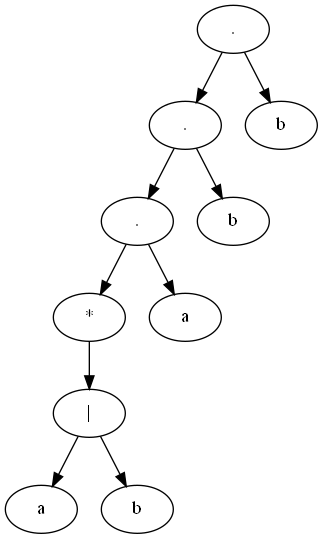
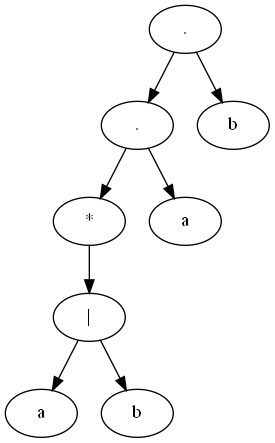
update

diff --git a/templates/index.html b/templates/index.html
@@ -3,73 +3,35 @@
 <head>
     <meta charset="UTF-8">
     <meta name="viewport" content="width=device-width, initial-scale=1.0">
-    <title>Visualizador de Expresiones Regulares</title>
-    <style>
-        body {
-            font-family: Arial, sans-serif;
-            text-align: center;
-            margin: 20px;
-        }
-        input {
-            padding: 8px;
-            width: 300px;
-            margin: 10px;
-        }
-        button {
-            padding: 10px 15px;
-            background-color: #28a745;
-            color: white;
-            border: none;
-            cursor: pointer;
-        }
-        button:hover {
-            background-color: #218838;
-        }
-        img {
-            margin-top: 20px;
-            max-width: 80%;
-        }
-        table {
-            margin: 20px auto;
-            border-collapse: collapse;
-        }
-        th, td {
-            border: 1px solid black;
-            padding: 5px 10px;
-        }
-    </style>
+    <title>Visualización de AFN, AFD y Árbol de Sintaxis</title>
 </head>
 <body>
-    <h2>Visualizador de Expresiones Regulares</h2>
-    <form method="POST">
-        <input type="text" name="expression" placeholder="Ingrese una expresión infix" required>
+    <h1>Generación y Visualización</h1>
+    
+    <form method="post">
+        <label for="expression">Expresión Regular:</label>
+        <input type="text" id="expression" name="expression" required>
         <button type="submit">Generar</button>
     </form>
 
     {% if postfix %}
-        <h3>Postfix:</h3>
+        <h2>Expresión en Postfix:</h2>
         <p>{{ postfix }}</p>
     {% endif %}
 
-    {% if followpos_table %}
-        <h3>Tabla de Followpos:</h3>
-        <table>
-            <tr>
-                <th>Posición</th>
-                <th>Followpos</th>
-            </tr>
-            {% for pos, follows in followpos_table.items() %}
-                <tr>
-                    <td>{{ pos }}</td>
-                    <td>{{ follows | join(', ') }}</td>
-                </tr>
-            {% endfor %}
-        </table>
+    {% if afn_image %}
+        <h2>Autómata Finito No Determinista (AFN)</h2>
+        <img src="{{ url_for('static', filename=afn_image) }}" alt="AFN">
     {% endif %}
 
-    {% if image_path %}
-        <h3>Árbol Sintáctico:</h3>
-        <img src="{{ image_path }}" alt="Árbol Sintáctico">
+    {% if afd_image %}
+        <h2>Autómata Finito Determinista (AFD)</h2>
+        <img src="{{ url_for('static', filename=afd_image) }}" alt="AFD">
+    {% endif %}
+
+    {% if syntax_tree_image %}
+        <h2>Árbol de Sintaxis</h2>
+        <img src="{{ url_for('static', filename=syntax_tree_image) }}" alt="Árbol de Sintaxis">
     {% endif %}
 </body>
 </html>

diff --git a/lab1.py b/lab1.py
@@ -1,148 +1,131 @@
 from flask import Flask, render_template, request
 import graphviz
+import re
 from collections import defaultdict
-import os
 
 app = Flask(__name__)
 
-def add_concat_operator(expression):
-    result = ""
-    operators = {'|', '*', '(', ')'}
-    for i in range(len(expression)):
-        result += expression[i]
-        if i + 1 < len(expression):
-            if (expression[i].isalnum() or expression[i] == ')') and (expression[i+1].isalnum() or expression[i+1] == '('):
-                result += '.'
-    return result
-
+# Implementación del algoritmo de Shunting Yard
 def infix_to_postfix(expression):
-    precedence = {'|': 1, '.': 2, '*': 3}
+    precedence = {'|': 1, '.': 2, '*': 3, '+': 3, '?': 3}
     output = []
     stack = []
     
     for char in expression:
         if char.isalnum():
             output.append(char)
+        elif char in precedence:
+            while stack and precedence.get(stack[-1], 0) >= precedence[char]:
+                output.append(stack.pop())
+            stack.append(char)
         elif char == '(':
             stack.append(char)
         elif char == ')':
             while stack and stack[-1] != '(':
                 output.append(stack.pop())
             stack.pop()
-        else:
-            while stack and stack[-1] != '(' and precedence[stack[-1]] >= precedence[char]:
-                output.append(stack.pop())
-            stack.append(char)
     
     while stack:
         output.append(stack.pop())
     
     return ''.join(output)
 
-class Node:
-    def __init__(self, value, left=None, right=None):
-        self.value = value
-        self.left = left
-        self.right = right
-        self.nullable = False
-        self.firstpos = set()
-        self.lastpos = set()
-        self.position = None
-
-def postfix_to_tree(postfix):
+# Construcción del AFN
+def construct_afn(postfix):
+    state_count = 0
     stack = []
-    position = 1
+    transitions = {}
+    
     for symbol in postfix:
         if symbol.isalnum():
-            node = Node(symbol)
-            node.position = position
-            node.firstpos.add(position)
-            node.lastpos.add(position)
-            position += 1
-            stack.append(node)
-        elif symbol in "|.*":
-            if symbol == "*":
-                child = stack.pop()
-                node = Node(symbol, left=child)
-            else:
-                right = stack.pop()
-                left = stack.pop()
-                node = Node(symbol, left, right)
-            stack.append(node)
-    return stack.pop()
-
-def compute_nullable_first_last(node):
-    if node is None:
-        return
-    compute_nullable_first_last(node.left)
-    compute_nullable_first_last(node.right)
+            start, end = state_count, state_count + 1
+            transitions.setdefault(start, {}).setdefault(symbol, set()).add(end)
+            stack.append((start, end))
+            state_count += 2
+        elif symbol in {'|', '.', '*'}:
+            if symbol == '|':
+                s1_start, s1_end = stack.pop()
+                s2_start, s2_end = stack.pop()
+                new_start, new_end = state_count, state_count + 1
+                transitions.setdefault(new_start, {}).setdefault('', set()).update({s1_start, s2_start})
+                transitions.setdefault(s1_end, {}).setdefault('', set()).add(new_end)
+                transitions.setdefault(s2_end, {}).setdefault('', set()).add(new_end)
+                stack.append((new_start, new_end))
+                state_count += 2
+            elif symbol == '.':
+                s2_start, s2_end = stack.pop()
+                s1_start, s1_end = stack.pop()
+                transitions.setdefault(s1_end, {}).setdefault('', set()).add(s2_start)
+                stack.append((s1_start, s2_end))
+            elif symbol == '*':
+                s_start, s_end = stack.pop()
+                new_start, new_end = state_count, state_count + 1
+                transitions.setdefault(new_start, {}).setdefault('', set()).update({s_start, new_end})
+                transitions.setdefault(s_end, {}).setdefault('', set()).update({s_start, new_end})
+                stack.append((new_start, new_end))
+                state_count += 2
     
-    if node.value.isalnum():
-        node.nullable = False
-    elif node.value == "*":
-        node.nullable = True
-        node.firstpos = node.left.firstpos
-        node.lastpos = node.left.lastpos
-    elif node.value == "|":
-        node.nullable = node.left.nullable or node.right.nullable
-        node.firstpos = node.left.firstpos | node.right.firstpos
-        node.lastpos = node.left.lastpos | node.right.lastpos
-    elif node.value == ".":
-        node.nullable = node.left.nullable and node.right.nullable
-        node.firstpos = node.left.firstpos if not node.left.nullable else node.left.firstpos | node.right.firstpos
-        node.lastpos = node.right.lastpos if not node.right.nullable else node.left.lastpos | node.right.lastpos
+    start_state, final_state = stack.pop()
+    return {'start': start_state, 'final': {final_state}, 'transitions': transitions}
 
-def compute_followpos(node, followpos_table):
-    if node is None:
-        return
-    compute_followpos(node.left, followpos_table)
-    compute_followpos(node.right, followpos_table)
-    if node.value == ".":
-        for pos in node.left.lastpos:
-            followpos_table[pos] |= node.right.firstpos
-    elif node.value == "*":
-        for pos in node.lastpos:
-            followpos_table[pos] |= node.firstpos
+# Construcción del árbol de sintaxis
+def construct_syntax_tree(postfix):
+    tree = graphviz.Digraph(format='png')
+    node_count = 0
+    stack = []
+    
+    for symbol in postfix:
+        node_name = f"n{node_count}"
+        tree.node(node_name, label=symbol)
+        node_count += 1
+        
+        if symbol.isalnum():
+            stack.append(node_name)
+        else:
+            if symbol in {'|', '.', '*'}:
+                if symbol == '*':
+                    child = stack.pop()
+                    tree.edge(node_name, child)
+                else:
+                    right = stack.pop()
+                    left = stack.pop()
+                    tree.edge(node_name, left)
+                    tree.edge(node_name, right)
+                
+            stack.append(node_name)
+    
+    tree.render('static/syntax_tree', format='png', cleanup=True)
 
-def build_afd(infix_expression):
-    infix_expression = add_concat_operator(infix_expression)
-    postfix = infix_to_postfix(infix_expression)
-    tree = postfix_to_tree(postfix)
-    compute_nullable_first_last(tree)
-    followpos_table = defaultdict(set)
-    compute_followpos(tree, followpos_table)
-    return postfix, tree, followpos_table
-
-def visualize_tree(tree):
+# Visualización del AF usando Graphviz
+def visualize_automaton(automaton, filename):
     dot = graphviz.Digraph(format='png')
+    for state in automaton['transitions']:
+        shape = 'doublecircle' if state in automaton['final'] else 'circle'
+        dot.node(str(state), shape=shape)
     
-    def add_nodes_edges(node):
-        if node:
-            label = f"{node.value}\nNullable: {node.nullable}\nFirstpos: {node.firstpos}\nLastpos: {node.lastpos}"
-            dot.node(str(id(node)), label)
-            if node.left:
-                dot.edge(str(id(node)), str(id(node.left)))
-                add_nodes_edges(node.left)
-            if node.right:
-                dot.edge(str(id(node)), str(id(node.right)))
-                add_nodes_edges(node.right)
+    for state, trans_dict in automaton['transitions'].items():
+        for symbol, next_states in trans_dict.items():
+            for next_state in next_states:
+                dot.edge(str(state), str(next_state), label=symbol if symbol else 'ε')
     
-    add_nodes_edges(tree)
-    image_path = "static/syntax_tree.png"
-    dot.render(image_path[:-4])
-    return image_path
+    dot.render(filename, cleanup=True)
 
 @app.route('/', methods=['GET', 'POST'])
 def index():
-    image_path = None
-    postfix = ""
-    followpos_table = {}
+    result = None
+    afn_path = None
+    afd_path = None
+    tree_path = None
     if request.method == 'POST':
-        infix_expression = request.form['expression']
-        postfix, tree, followpos_table = build_afd(infix_expression)
-        image_path = visualize_tree(tree)
-    return render_template('index.html', image_path=image_path, postfix=postfix, followpos_table=followpos_table)
+        expression = request.form['expression']
+        postfix = infix_to_postfix(expression)
+        afn = construct_afn(postfix)
+        construct_syntax_tree(postfix)
+        visualize_automaton(afn, 'static/afn')
+        result = f"Postfix: {postfix}"
+        afn_path = 'static/afn.png'
+        tree_path = 'static/syntax_tree.png'
+    return render_template('index.html', result=result, afn_path=afn_path, tree_path=tree_path)
 
 if __name__ == '__main__':
-    os.makedirs('static', exist_ok=True)
     app.run(debug=True)
